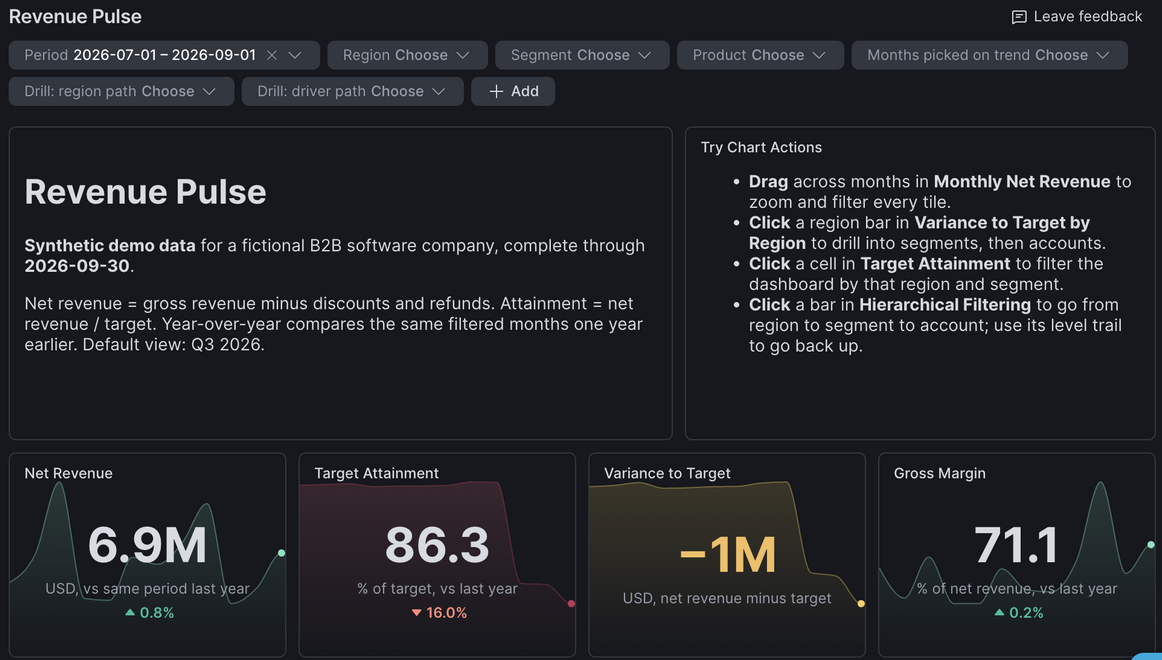
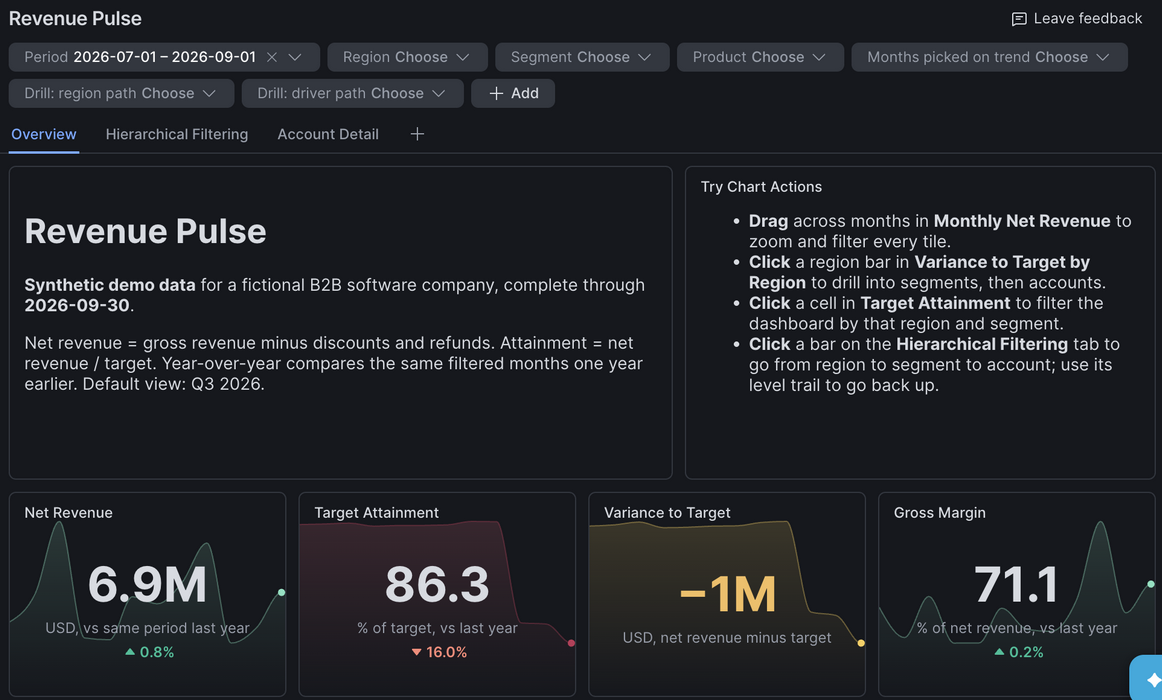
Describe the three-tab Revenue Pulse layout and refresh overview screenshots.
Generated with [Snowflake CoCo](https://docs.snowflake.com/en/user-guide/cortex-code/cortex-code)

diff --git a/quickstart/getting-started-with-snowflake-dashboards-2-0/getting-started-with-snowflake-dashboards-2-0.md b/quickstart/getting-started-with-snowflake-dashboards-2-0/getting-started-with-snowflake-dashboards-2-0.md
@@ -44,9 +44,9 @@ A morning revenue check fits that last description, so this guide uses a dashboa
 - How to ask follow-up questions about a dashboard in CoWork, and keep recorded drivers separate from hypotheses
 
 ### What You'll Build
-You'll build Revenue Pulse, a single-page revenue dashboard that takes you from the Q3 2026 headline numbers down to the regions, segments, and accounts behind the $1.09M gap. It combines KPI sparklines, a monthly trend, regional bars, a heatmap, a variance waterfall, and account details, plus a driver donut and an account attainment bubble chart. Brush the trend or click a region bar, and the related charts would filter to match.
+You'll build Revenue Pulse, a three-tab revenue dashboard that takes you from the Q3 2026 headline numbers down to the regions, segments, and accounts behind the $1.09M gap. It combines KPI sparklines, a monthly trend, regional bars, a heatmap, a variance waterfall, and account details, plus a driver donut and an account attainment bubble chart. The core charts sit on an **Overview** tab, with **Hierarchical Filtering** and **Account Detail** on tabs of their own. Brush the trend or click a region bar, and the related charts would filter to match.
 
-![Completed Revenue Pulse dashboard from summary cards through account details, including the driver donut and account bubble charts](assets/dashboard-complete.png)
+![Overview tab of the completed Revenue Pulse dashboard, from summary cards through the driver donut and account bubble charts, with Hierarchical Filtering and Account Detail tabs alongside](assets/dashboard-complete.png)
 
 The architecture below shows how the dashboard and Revenue Advisor use the shared semantic view, and how viewers explore the published artifact in CoWork.
 
@@ -657,7 +657,7 @@ actions still apply. Clicking a bar should drill one level down,
 and its level trail should drill back up. Hierarchy datasources
 can't use the semantic view, so join REVENUE_MONTHLY, CUSTOMERS,
 and PRODUCTS and reuse the semantic view's net revenue and target
-formulas. Place it above Account Detail. Keep the existing chart
+formulas. Put it on a new tab named Hierarchical Filtering. Keep the existing chart
 actions and validate the file.
 ```
 
@@ -680,10 +680,11 @@ Finish with a compact layout and a short guide for the reader. Explain only inte
 **Prompt:**
 
 ```text
-Arrange the dashboard as one page: header and a short
-Try Chart Actions text tile at the top, four KPI cards below,
-then trend and regional views, followed by driver views, the
-hierarchy chart, and account detail.
+Arrange the dashboard in three tabs. On Overview: header and a
+short Try Chart Actions text tile at the top, four KPI cards below,
+then trend and regional views, followed by driver views. Put the
+hierarchy chart alone on a Hierarchical Filtering tab and the
+account detail table alone on an Account Detail tab.
 In the text tile, describe only the actions we verified and how to
 clear their selections. If no chart actions are supported, title it
 Try Dashboard Filters instead and explain the filter chips.
@@ -692,9 +693,9 @@ SQL, filter bindings, and tile IDs while adjusting layout.
 Validate the file; do not publish or change sharing.
 ```
 
-**Expected output:** A single-page layout ordered from summary to detail, with concise instructions for verified controls and reset actions. Existing SQL, bindings, and tile IDs remain intact.
+**Expected output:** Three tabs (Overview, Hierarchical Filtering, and Account Detail), with Overview ordered from summary to detail, with concise instructions for verified controls and reset actions. Existing SQL, bindings, and tile IDs remain intact.
 
-**Check:** Read the dashboard at your normal browser size. Labels should fit, legends should explain units and colours, and the instructions should match the controls that actually work.
+**Check:** Read the dashboard at your normal browser size. Labels should fit, legends should explain units and colours, and the instructions should match the controls that actually work. [Tabs](https://docs.snowflake.com/en/LIMITEDACCESS/cowork-dashboards#tabs) share one set of filters, so switch to **Account Detail** with Region = EMEA set and the table should show only EMEA accounts. Only the open tab's tiles run their queries.
 
 ## Validate the Dashboard
 
@@ -791,7 +792,7 @@ Test each action you added in step 12; for any your account doesn't support, the
 1. **Brush months:** Drag a range on the trend, then clear **Months picked on trend** to restore Period and the full history.
 2. **Select a region bar:** Other tiles filter to that region; the source bars remain visible. Clear **Drill: region path** to reset. Use the Region and Segment dropdowns, rather than bar clicks, to change the source chart's detail level.
 3. **Select a heatmap cell:** Other tiles filter to its region and segment; the source grid stays unchanged. Clear the resulting selections before another test.
-4. **Drill the hierarchy:** In **Hierarchical Filtering**, click EMEA, then Enterprise, to reach its six accounts; the largest miss is Demo EMEA Enterprise 05 at −$348.7K. Use the level trail to return to **Region All**.
+4. **Drill the hierarchy:** On the **Hierarchical Filtering** tab, click EMEA, then Enterprise, to reach its six accounts; the largest miss is Demo EMEA Enterprise 05 at −$348.7K. Use the level trail to return to **Region All**.
 
 Restore Q3 and clear all other selections before publishing.
 
